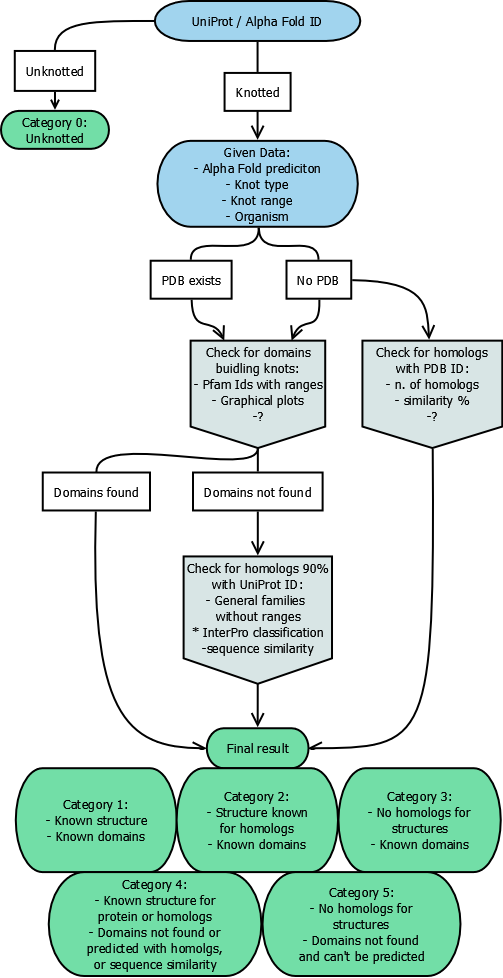
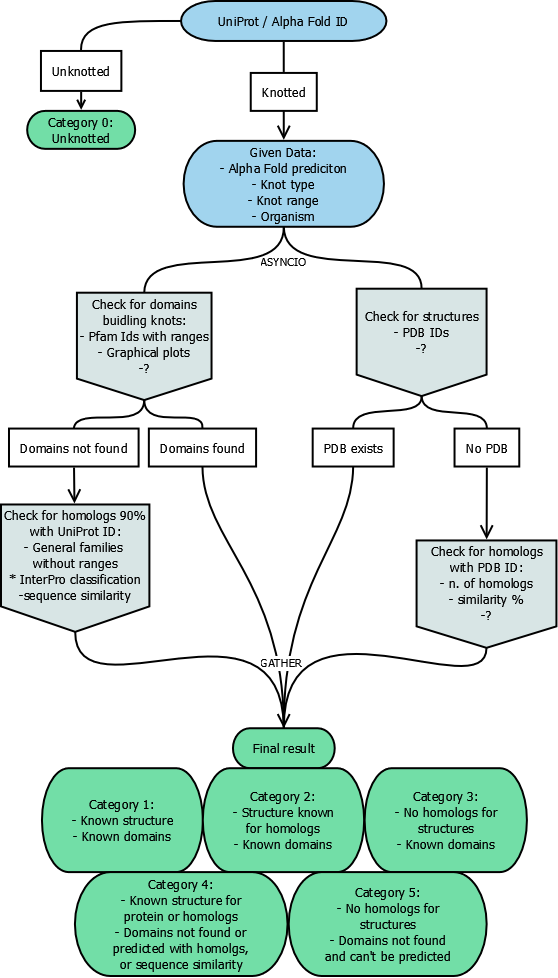
.

diff --git a/alpha_fold_structure_check.py b/alpha_fold_structure_check.py
@@ -1,0 +1,80 @@
+from urllib import request
+
+def AlphaFoldStructureCheck(input_data):
+    """
+    :param input_data: List of Uniprot IDs ["A0A081RPU7", "A0A087S697",	"A0A087S2L9", ...]
+    :return:
+    """
+
+    def CheckPDBExists(input_data):
+        """
+        Checks for PDB IDs of given protein in Uniprot.
+        WARNING - Script assumes batches are small enough not to reach the url length limit.
+        Anything below 150 Uni IDs should be fine.
+
+        :param input_data: List of Uniprot IDs ["A0A081RPU7", "A0A087S697",	"A0A087S2L9", ...]
+        :return: no_pdb: List of Uniprot IDs without structure ['Q9FLD5', 'Q5T9A4', 'Q925I1', ...]
+        :return: pdb_exists: List of Uniprot IDs and all structures [['Q12019', ['5FL8', '5JCS']], ['P32795', ['2MV3']], ...]
+        """
+
+        insert_text = "%20OR%20id:".join(input_data)
+        url = f"https://www.uniprot.org/uniprot/?query=id:{insert_text}&format=tab&columns=id,database(PDB)&sort=score"
+        pdb_exists = request.urlopen(url)
+        pdb_exists = pdb_exists.readlines()
+        pdb_exists = [i.decode("utf-8").rstrip().split("\t") for i in pdb_exists[1:]]
+        no_pdb = [i[0] for i in pdb_exists if len(i) == 1]
+        pdb_exists = [i for i in pdb_exists if len(i) == 2]
+        pdb_exists = [[i[0], i[1].rstrip(";").split(";")] for i in pdb_exists]
+
+        return no_pdb, pdb_exists
+
+    def CheckHomologExists(input_data):
+        insert_text = "%20OR%20uniprot:".join(input_data)
+        url = f"https://www.uniprot.org/uniref/?query=uniprot:{insert_text}&format=tab&limit=10&columns=id,count,members&sort=score"
+        clusters = request.urlopen(url)
+        clusters = clusters.readlines()
+        clusters = [i.decode("utf-8").rstrip().split("\t") for i in clusters[1:]]
+        result = []
+
+        for UniID in input_data:
+            temp_clusters = [i for i in clusters if UniID in i[0]]
+            chosen_cluster = None
+            identity = None
+            for i in temp_clusters:
+                if "UniRef50" in i[0]:
+                    chosen_cluster = i
+                    identity = '50'
+                    break
+                elif "UniRef90" in i[0]:
+                    identity = '90'
+                    chosen_cluster = i
+
+            if chosen_cluster:
+                batch_size = 100
+                cluster_size = int(chosen_cluster[1])
+                chosen_cluster = chosen_cluster[2].split("; ")
+                batches = [chosen_cluster[i:i + batch_size] for i in range(0, len(chosen_cluster), batch_size)]
+                all_PDBS_exist = []
+                all_no_PDBS = []
+                for i1 in batches:
+                    temp_no_pdb, temp_exists = CheckPDBExists(i1)
+                    all_no_PDBS.extend(temp_no_pdb)
+                    all_PDBS_exist.extend(temp_exists)
+                result.append([UniID, identity, cluster_size, len(all_PDBS_exist)])
+            else:
+                result.append([UniID, None, None, None])
+
+        return result
+
+
+    no_pdb, pdb_exists = CheckPDBExists(input_data)
+    homolog_result = CheckHomologExists(no_pdb)
+
+    for i in pdb_exists:
+        print(i)
+    for i in homolog_result:
+        print(i)
+
+
+AlphaFoldStructureCheck(["Q9FLD5", "Q6PL18", "Q5T9A4", "Q925I1", "P32795", "Q12019"])
+
